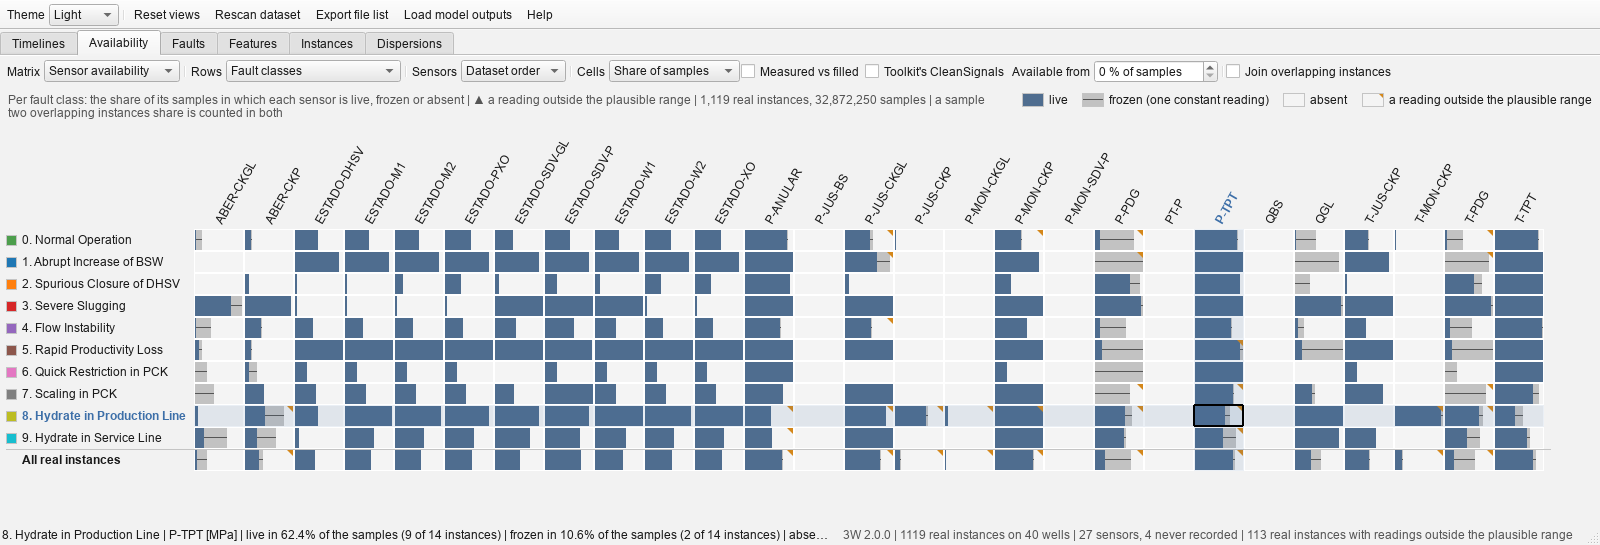
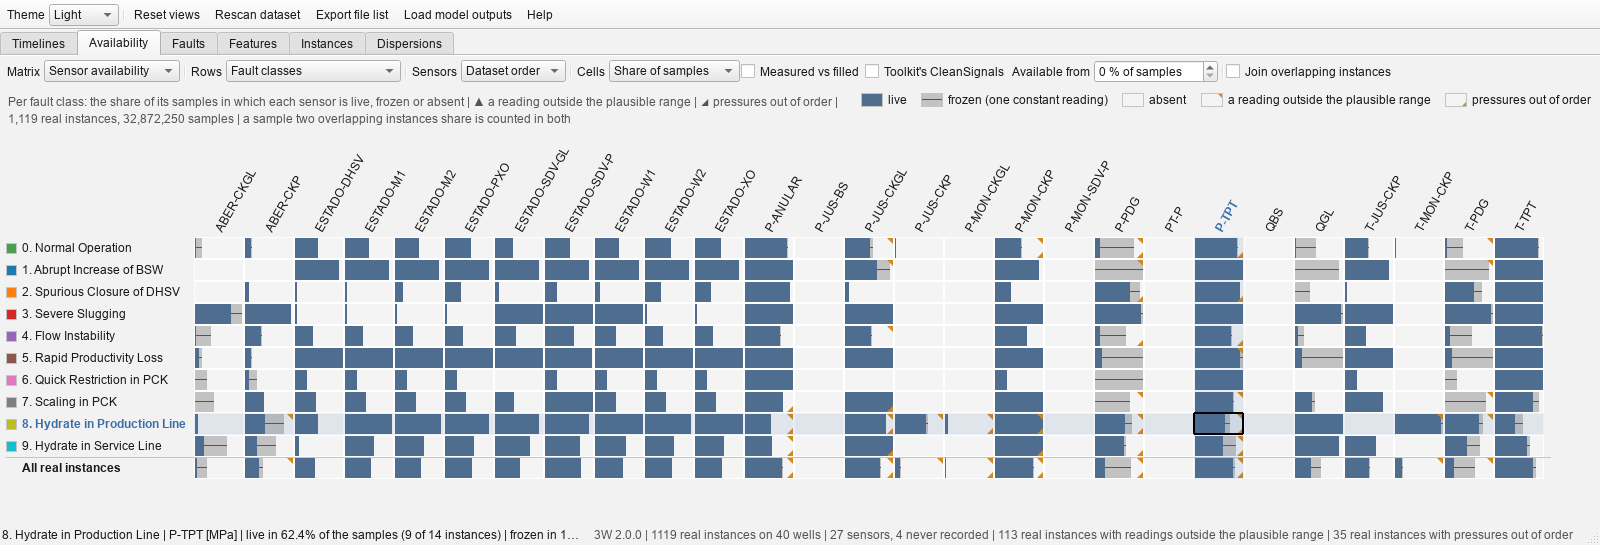
bugfix: improved instance plot opening, remove stale line in README, updated screenshots

Changed region(s): [[0.0, 0.2807, 0.9688, 0.8734], [0.0, 0.156, 1.0, 0.2495], [0.3438, 0.967, 1.0, 0.9982]]

diff --git a/src/overlap_viewer/frontend/window.py b/src/overlap_viewer/frontend/window.py
@@ -8,7 +8,7 @@ window owns what they share: the theme, the rescan, the help, the status bar the
 pages write to, and the instance windows the pages open.
 """
 
-from collections.abc import Callable
+from collections.abc import Callable, Sequence
 from functools import partial
 from pathlib import Path
 
@@ -145,7 +145,7 @@ class MainWindow(QMainWindow):
         self.timelines.open_requested.connect(self.open_instances)
         self.availability.open_requested.connect(self._open_bar)
         self.map.open_requested.connect(self.open_instances)
-        self.dispersion.open_requested.connect(self._open_on_features)
+        self.dispersion.open_requested.connect(self.open_instances)
         self.faults.open_requested.connect(self._open_on_feature)
         self.features.open_requested.connect(self._open_on_feature)
         self.map.results_changed.connect(self._on_map_results)
@@ -397,15 +397,19 @@ class MainWindow(QMainWindow):
             )
         self._help.show_tab(HELP_TABS.get(type(self._tabs.currentWidget()), "Fault classes"))
 
-    def open_instances(self, data: WellData, index: int):
+    def open_instances(self, data: WellData, index: int, features: Sequence[str] = ()):
         """Open the time series of one bar of a timeline and of every bar it overlaps.
 
-        Returns the window, or ``None`` when its files could not be read.
+        ``features`` are the sensors drawn, when the page asking chose any, in
+        place of the window's own default. Returns the window, or ``None`` when
+        its files could not be read.
         """
         from overlap_viewer.frontend.instance_window import InstanceWindow
 
         try:
-            window = InstanceWindow(data, index, self.info, self._frames, passes=self._passes)
+            window = InstanceWindow(
+                data, index, self.info, self._frames, passes=self._passes, features=features
+            )
         except Exception as error:  # noqa: BLE001 - one unreadable file must not take the app down
             QMessageBox.warning(
                 self, "Could not open the instances", f"{type(error).__name__}: {error}"
@@ -427,13 +431,7 @@ class MainWindow(QMainWindow):
 
     def _open_on_feature(self, data: WellData, index: int, sensor) -> None:
         """Open one bar with ``sensor`` drawn, or on the window's own default without one."""
-        self._open_on_features(data, index, [sensor] if sensor else [])
-
-    def _open_on_features(self, data: WellData, index: int, sensors) -> None:
-        """Open one bar with ``sensors`` drawn, or on the window's own default without any."""
-        window = self.open_instances(data, index)
-        if window is not None and sensors:
-            window.select_features(sensors)
+        self.open_instances(data, index, [sensor] if sensor else ())
 
     def _export_file_list(self) -> None:
         """Write the instances the current page has on show as a Toolkit file list, where the user says."""

diff --git a/src/overlap_viewer/frontend/instance_window.py b/src/overlap_viewer/frontend/instance_window.py
@@ -347,6 +347,7 @@ class InstanceWindow(QMainWindow):
         info: DatasetInfo,
         frames: FrameCache,
         passes=None,
+        features: Sequence[str] = (),
         parent=None,
     ):
         super().__init__(parent)
@@ -401,7 +402,9 @@ class InstanceWindow(QMainWindow):
         self._stretch_timer.timeout.connect(self._refresh_stretch)
 
         self._adopt(self._plain is None)
-        self._build_ui()
+        # The sensors the page that opened the window asked for, when it chose
+        # any, ticked in place of the default so the window is drawn once.
+        self._build_ui(set(features) or None)
         self._rebuild()
 
     # -- data
@@ -578,7 +581,7 @@ class InstanceWindow(QMainWindow):
         return [name for name, check in self._checks.items() if check.isChecked()]
 
     def select_features(self, names: Sequence[str]) -> None:
-        """Tick exactly ``names`` (those recorded here) and draw them; what another page asked for."""
+        """Tick exactly ``names`` (those recorded here) and draw them, in a window already open."""
         wanted = set(names)
         for name, check in self._checks.items():
             check.blockSignals(True)
@@ -602,7 +605,7 @@ class InstanceWindow(QMainWindow):
 
     # -- construction
 
-    def _build_ui(self) -> None:
+    def _build_ui(self, features: set[str] | None = None) -> None:
         toolbar = QToolBar("View")
         toolbar.setMovable(False)
         self.addToolBar(toolbar)
@@ -686,7 +689,7 @@ class InstanceWindow(QMainWindow):
         self._body = QHBoxLayout()
         body = self._body
         body.setSpacing(8)
-        self._panel = self._build_feature_panel()
+        self._panel = self._build_feature_panel(features)
         self._panel.setVisible(self._features_shown)
         body.addWidget(self._panel)
         self._layout_widget = PlotStack()

diff --git a/src/README.md b/src/README.md
@@ -767,9 +767,10 @@ window.
   `of(view, positions)`.
 - `InstanceWindow(QMainWindow)`: builds both the "apart" and "joined" drawings up front so toggling
   *Join* is instant. `_adopt(joined)` switches which drawing is active and reloads frames.
-  `select_features(names)` is the external API other pages use to open the window with preset
-  sensors (one from the Availability, Faults and Features pages, X and Y from the Dispersions
-  page). `dots_shown` is the *Measurement dots* box of the Views row: unticked, a trace is drawn
+  `features`, a constructor argument, is what other pages open the window on in place of the
+  default (one sensor from the Availability, Faults and Features pages, X and Y from the
+  Dispersions page), so the window is drawn once; `select_features(names)` changes the selection
+  of a window already open. `dots_shown` is the *Measurement dots* box of the Views row: unticked, a trace is drawn
   as the plain line the file holds rather than marking the samples the historian archived. `_lay_out_stack()` is the master layout builder (coverage band, per-block header, state/
   class/model bands, per-feature trace + optional histogram/spectrum row). `_refresh_stretch()`
   recomputes histograms/spectra for the on-screen time range as the user pans and zooms.
@@ -787,7 +788,7 @@ rescan, help, status bar, the passes, model-output loading, file-list export) an
   window. `set_theme_mode(mode)` persists the mode and lays the page on show out again, leaving
   the other pages stale until they are next shown (`set_catalogue(lazy=True)`, `_on_page_changed`):
   pyqtgraph bakes colors in at build time, so a theme change cannot be repainted in place, and
-  laying every page out at once was most of a nine-second switch. `open_instances(data, index)`
-  constructs and tracks an `InstanceWindow`; `_open_on_features(data, index, sensors)` then ticks
-  the sensors a page asked for (`_open_on_feature` for one). `_export_file_list()` writes the
-  current page's `shown_files()` via `backend.export.write_file_list`.
+  laying every page out at once was most of a nine-second switch. `open_instances(data, index,
+  features)` constructs and tracks an `InstanceWindow`, on the sensors a page asked for when it
+  asked for any (`_open_on_feature` for one). `_export_file_list()` writes the current page's
+  `shown_files()` via `backend.export.write_file_list`.

diff --git a/README.md b/README.md
@@ -26,7 +26,7 @@ summarized in the following table and detailed in their own READMEs.
 | [Faults](docs/gui/Faults.md)             | Compare how one fault looks across every well it occurred on                                         | Every real instance of one fault, aligned at its onset, one section per sensor, as small multiples or overlaid, in the time, distribution or spectrum domain                                                                          |
 | [Features](docs/gui/Features.md)         | Compare what one sensor reads across every fault class                                               | One sensor fixed, one section per fault class, the same layouts, domains and transforms as the Faults page                                                                                                                            |
 | [Instances](docs/gui/Instances.md)       | Place every real instance on one plane by what its sensors amount to                                 | A 2D embedding (PCA, t-SNE or UMAP) of each instance's descriptors or DTW shape, colored by class, well, cluster, typicality, novelty or model agreement, with clustering scores and a label-audit of disagreements                   |
-| [Dispersions](docs/gui/Dispersions.md)   | See two sensors against each other, the way the historian's interpolation shows up in a scatter plot | A point cloud, with its density, of two sensors over a scope (every instance, one class or one well), colored by class, well or label period, thinnable to genuine measurements alone, or one dot per instance                        |
+| [Dispersions](docs/gui/Dispersions.md)   | See two sensors against each other, the way the historian's interpolation shows up in a scatter plot | A point cloud, with its density, of two sensors over a scope (every instance, one class or one well), colored by class, well or label period, thinnable to genuine measurements alone                                                 |
 
 Furthermore, an *instance window* is available for visualizing the signals and labeling of an instance (see [the color code](docs/gui/ColorCode.md)).
 This window can be accessed whenever user clicks on a representation of an instance (horizontal bar in the Timelines page, points in cluster maps, etc.), and is [documented in detail](docs/gui/InstanceWindow.md).
